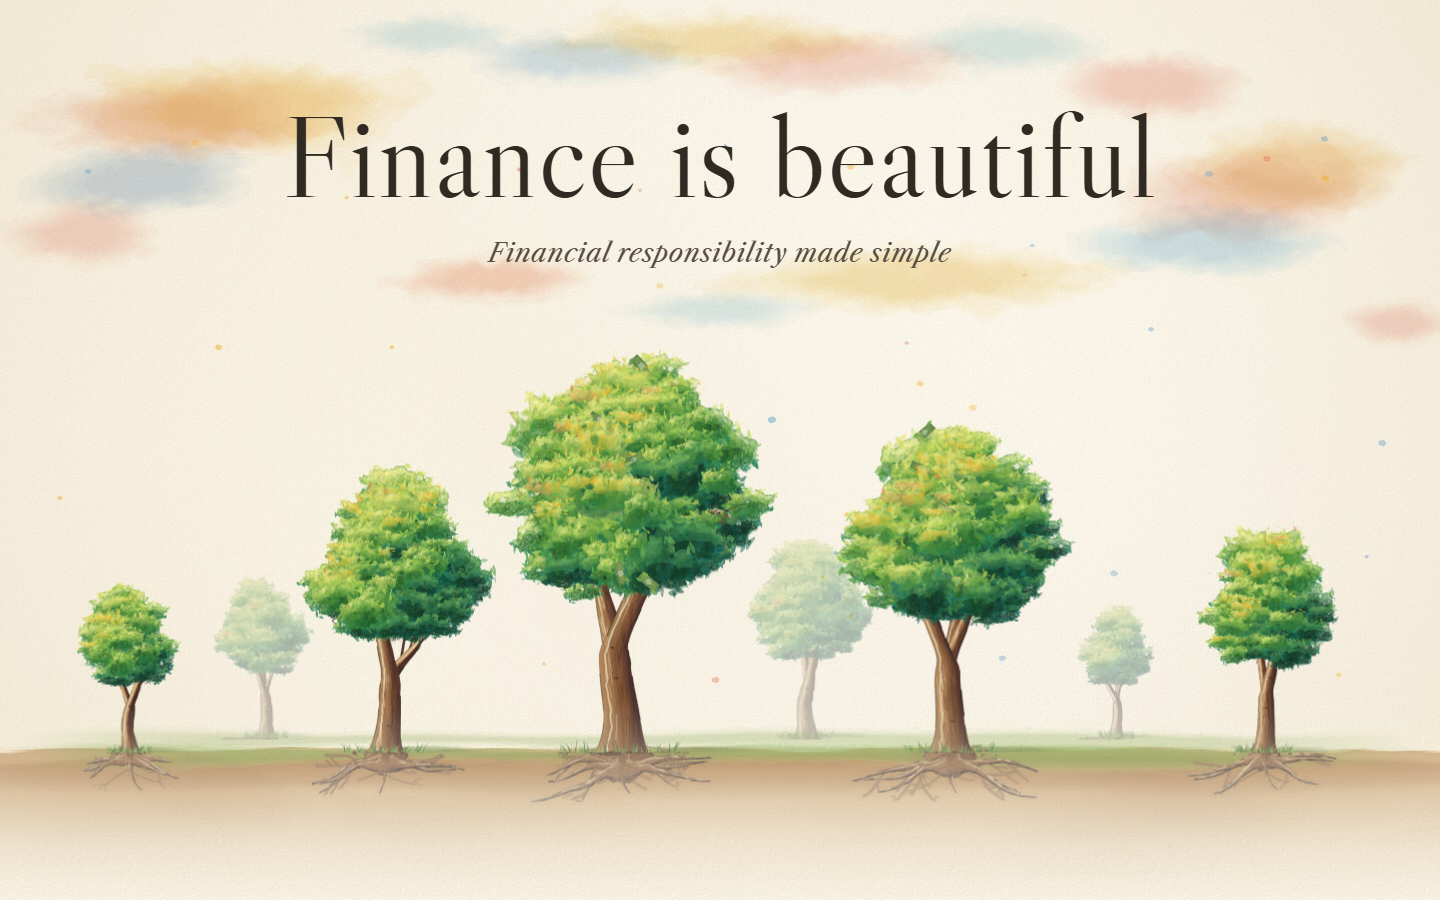
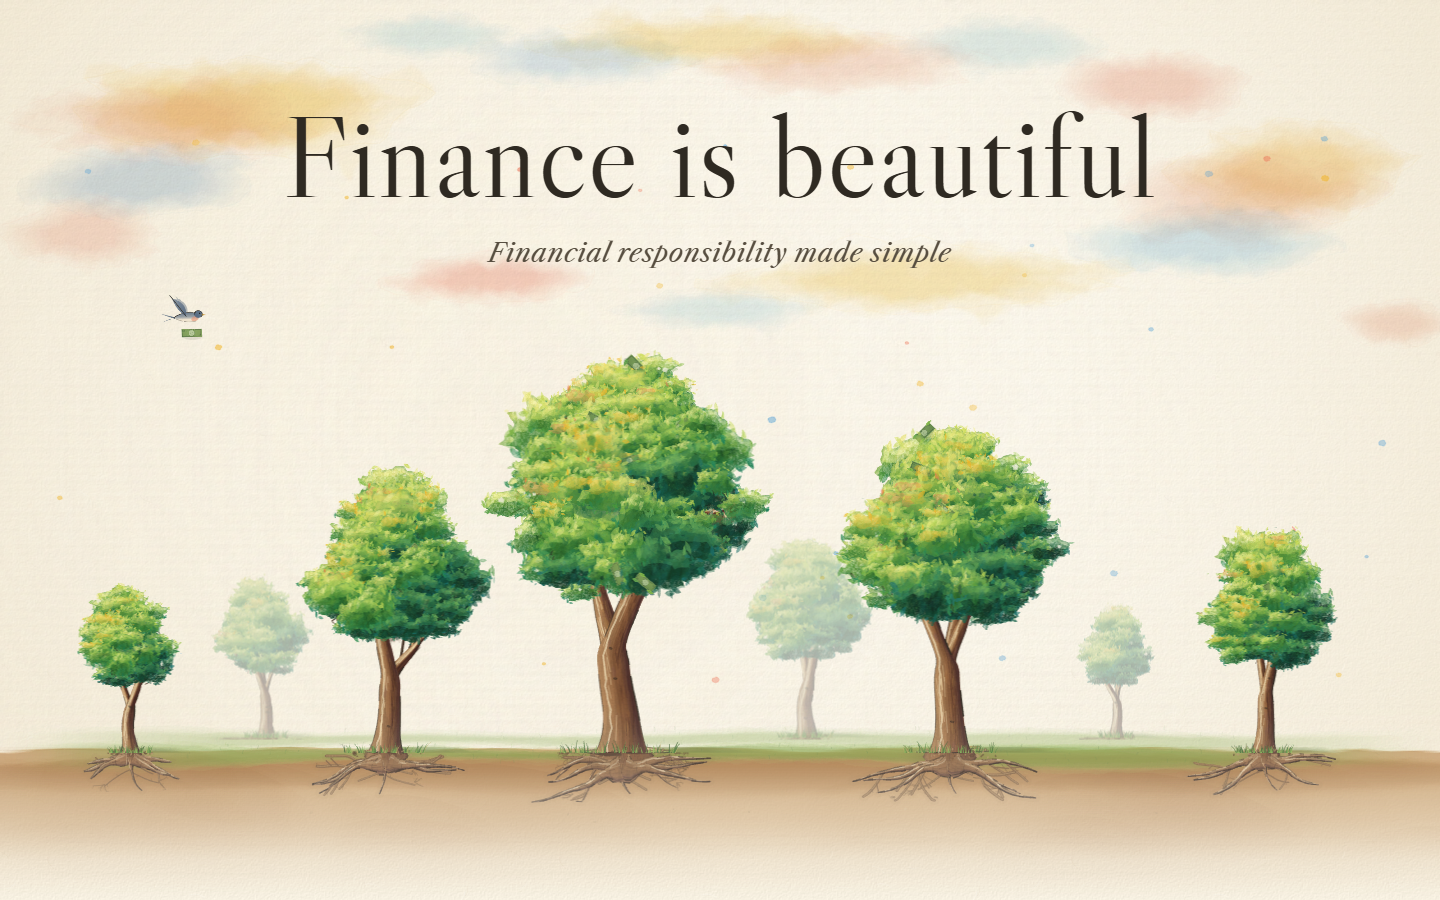
Landing: trees sway on the compositor (CSS skew animation per tree layer); repaint only when growing or receiving a bill; overlay redrawn only while birds fly

diff --git a/src/landing/hero.ts b/src/landing/hero.ts
@@ -65,6 +65,28 @@ export function startHero(hero: HTMLElement, canvas: HTMLCanvasElement, reduced:
   /** a tree that just received a bill repaints every frame until this time, so the bill fades in smoothly */
   const hotUntil = GROVE.map(() => 0);
   let grownDone = false;
+  let overlayDirty = false;
+  let tick = 0;
+  let finalPainted = false;
+  const settled = GROVE.map(() => false);
+  /**
+   * Wind as a gentle bend of each tree's cached image: a horizontal shear about its ground line, a slow
+   * gust under a quicker flutter, phase-shifted per tree; bigger trees bend a little less.
+   */
+  const SWAY_MS = 8000;
+  const swayAt = (i: number, t: number): number => {
+    const ph = i * 1.7;
+    const w = (Math.PI * 2 * t) / (SWAY_MS / 1000);
+    const amp = 0.011 * (1.15 - 0.35 * GROVE[i]!.m);
+    return amp * (0.7 * Math.sin(w + ph) + 0.3 * Math.sin(3 * w + ph * 1.9));
+  };
+  /** current bend of tree i, read from its running compositor animation */
+  const sway = (i: number): number => {
+    const a = swayAnims[i];
+    const ct = a ? Number(a.currentTime ?? 0) : 0;
+    return a ? swayAt(i, (ct % SWAY_MS) / 1000) : 0;
+  };
+  const swayAnims: Array<Animation | undefined> = GROVE.map(() => undefined);
   const billCount = (i: number) => GROVE[i]!.bills + extra[i]!;
   const layerView = (i: number) => {
     const g = geo!;
@@ -90,7 +112,11 @@ export function startHero(hero: HTMLElement, canvas: HTMLCanvasElement, reduced:
     restPose(i) {
       if (!geo || !layers[i]) return null;
       const p = painters[i]!.restingBillPose(billCount(i), layerView(i));
-      return { ...p, x: p.x + layers[i]!.x, y: p.y + layers[i]!.y };
+      const L = layers[i]!;
+      const y = p.y + L.y;
+      const yb = L.y + LAYER_UP * geo.s;
+      const k = reduced() ? 0 : sway(i);
+      return { ...p, x: p.x + L.x + k * (yb - y), y };
     },
     landed(i) {
       extra[i]!++;
@@ -130,7 +156,13 @@ export function startHero(hero: HTMLElement, canvas: HTMLCanvasElement, reduced:
   const LAYER_DOWN = 100; // below it (roots)
   const LAYER_W = 620;
 
+  /** canvases this hero has put in the page (removed and rebuilt on resize) */
+  let domLayers: HTMLCanvasElement[] = [];
+  let farTmp: HTMLCanvasElement | null = null;
   const buildLayers = (g: HeroGeometry) => {
+    for (const a of swayAnims) a?.cancel();
+    for (const c of domLayers) c.remove();
+    domLayers = [];
     layers = GROVE.map((t) => {
       const cssW = Math.ceil(LAYER_W * g.s);
       const cssH = Math.ceil((LAYER_UP + LAYER_DOWN) * g.s);
@@ -140,9 +172,43 @@ export function startHero(hero: HTMLElement, canvas: HTMLCanvasElement, reduced:
       const up = t.bg ? HORIZON_UP : 0;
       return { cv, cssW, cssH, x: t.x * g.w - cssW / 2, y: g.groundY - (LAYER_UP + up) * g.s, at: -1 };
     });
+    // far trees: hazed together into one static page layer
+    farTmp = document.createElement('canvas');
+    farTmp.width = Math.round(g.w * g.dpr);
+    farTmp.height = Math.round(g.h * g.dpr);
     bgComp = document.createElement('canvas');
-    bgComp.width = Math.round(g.w * g.dpr);
-    bgComp.height = Math.round(g.h * g.dpr);
+    bgComp.width = farTmp.width;
+    bgComp.height = farTmp.height;
+    bgComp.className = 'grove grove-far';
+    bgComp.setAttribute('aria-hidden', 'true');
+    bgComp.style.width = `${g.w}px`;
+    bgComp.style.height = `${g.h}px`;
+    canvas.before(bgComp);
+    domLayers.push(bgComp);
+    // main trees: one page layer each, smaller trees first so larger crowns overlap them
+    for (const i of order) {
+      const L = layers[i]!;
+      const st = L.cv.style;
+      L.cv.className = 'grove grove-tree';
+      L.cv.setAttribute('aria-hidden', 'true');
+      st.left = `${L.x}px`;
+      st.top = `${L.y}px`;
+      st.width = `${L.cssW}px`;
+      st.height = `${L.cssH}px`;
+      st.transformOrigin = `${L.cssW / 2}px ${LAYER_UP * g.s}px`;
+      canvas.before(L.cv);
+      domLayers.push(L.cv);
+      if (!reduced()) {
+        // wind on the compositor: a gentle shear about the ground line, sampled from swayAt over one loop
+        const N = 48;
+        const frames: Keyframe[] = [];
+        for (let f = 0; f <= N; f++) {
+          const k = swayAt(i, ((f / N) * SWAY_MS) / 1000);
+          frames.push({ transform: `skewX(${(Math.atan(-k) * 180) / Math.PI}deg)` });
+        }
+        swayAnims[i] = L.cv.animate(frames, { duration: SWAY_MS, iterations: Infinity, easing: 'linear' });
+      }
+    }
   };
 
   const paintLayer = (i: number, now: number, secs: number, still: boolean) => {
@@ -167,7 +233,8 @@ export function startHero(hero: HTMLElement, canvas: HTMLCanvasElement, reduced:
         maturity: START_M + (t.m - START_M) * e,
         months: 24,
         timeMs: now,
-        wind: !still,
+        wind: false,
+        fadeBills: !still,
         pulse: -1,
         bills: Math.floor(t.bills * e + 0.001) + extra[i]!,
       },
@@ -183,25 +250,29 @@ export function startHero(hero: HTMLElement, canvas: HTMLCanvasElement, reduced:
     // the grow clock starts when the page is revealed (begin()); until then the grove holds as seedlings
     const secs = still ? 99 : t0 < 0 ? 0 : Math.max(0, (now - t0) / 1000);
     const growing = secs < GROW_S + 0.5;
-    const t1 = performance.now();
-    // Stalest trees first within a per-frame budget (every tree when still or on the first frame), so the
-    // screen keeps a steady 60 fps while growth is spread over a couple of frames per tree.
-    const budget = growing ? 9 : 7;
+    // Trees are repainted only when they change: every frame while growing (far trees every other frame),
+    // and once when a bill lands. Wind never repaints a tree: the cached image is bent when drawn (sway()).
     const first = layers.some((L) => L.at < 0);
     const hot = (i: number) => hotUntil[i]! > now;
-    const byAge = allIdx.slice().sort((a, b) => (hot(b) ? 1 : 0) - (hot(a) ? 1 : 0) || layers[a]!.at - layers[b]!.at);
-    let n = 0;
+    tick++;
     let bgDirty = first;
-    for (const i of byAge) {
-      if (!still && !first && n > 0 && !hot(i) && performance.now() - t1 > budget) break;
+    for (const i of allIdx) {
+      const t = GROVE[i]!;
+      const due = first || hot(i) || (growing && !settled[i] && (!t.bg || tick % 2 === 0));
+      if (!due) continue;
       paintLayer(i, now, secs, still);
-      if (GROVE[i]!.bg) bgDirty = true;
-      n++;
+      // one last paint after its growth window closes, then it is cached for good
+      if (growing && secs > t.delay + GROW_S + 0.1) settled[i] = true;
+      if (t.bg) bgDirty = true;
     }
-    ctx.setTransform(geo.dpr, 0, 0, geo.dpr, 0, 0);
-    ctx.clearRect(0, 0, geo.w, geo.h);
-    if (bgComp && bgDirty) {
-      const bc = bgComp.getContext('2d')!;
+    if (!growing && !finalPainted) {
+      // make sure every tree's cached image is its exact final state
+      finalPainted = true;
+      for (const i of allIdx) if (!settled[i]) paintLayer(i, now, secs, still);
+      bgDirty = true;
+    }
+    if (bgComp && farTmp && bgDirty) {
+      const bc = farTmp.getContext('2d')!;
       bc.setTransform(geo.dpr, 0, 0, geo.dpr, 0, 0);
       bc.globalCompositeOperation = 'source-over';
       bc.clearRect(0, 0, geo.w, geo.h);
@@ -215,18 +286,20 @@ export function startHero(hero: HTMLElement, canvas: HTMLCanvasElement, reduced:
       bc.fillRect(0, 0, geo.w, geo.h);
       bc.fillStyle = 'rgba(120,165,205,0.12)';
       bc.fillRect(0, 0, geo.w, geo.h);
+      const fc = bgComp.getContext('2d')!;
+      fc.setTransform(1, 0, 0, 1, 0, 0);
+      fc.clearRect(0, 0, bgComp.width, bgComp.height);
+      fc.globalAlpha = 0.55;
+      fc.drawImage(farTmp, 0, 0);
+      fc.globalAlpha = 1;
     }
-    if (bgComp) {
-      ctx.globalAlpha = 0.55;
-      ctx.drawImage(bgComp, 0, 0, geo.w, geo.h);
-      ctx.globalAlpha = 1;
+    // the overlay canvas only carries birds and falling bills: redraw it only while something is flying
+    if (grownDone && !still && (aviary.busy(now) || overlayDirty)) {
+      ctx.setTransform(geo.dpr, 0, 0, geo.dpr, 0, 0);
+      ctx.clearRect(0, 0, geo.w, geo.h);
+      aviary.frame(ctx, now);
+      overlayDirty = aviary.busy(now);
     }
-    for (const i of order) {
-      const L = layers[i]!;
-      ctx.drawImage(L.cv, L.x, L.y, L.cssW, L.cssH);
-    }
-    // occasional birds, once the grove has grown (never in reduced motion)
-    if (grownDone && !still) aviary.frame(ctx, now);
     if (secs > GROW_S + 0.5) {
       grownDone = true;
       resolveGrown();

diff --git a/src/scene/treePainter.ts b/src/scene/treePainter.ts
@@ -37,6 +37,8 @@ export interface PaintParams {
   cull?: { x0: number; y0: number; x1: number; y1: number };
   /** whole years of contributions = bills resting in the canopy */
   bills?: number;
+  /** fade newly added canvas bills in even when wind is off (the landing sways trees as whole images) */
+  fadeBills?: boolean;
   /** planting spot instead of a tree */
   unplanted?: boolean;
   /** 0..1 planting transition (stake fades, mound settles); 1 = fully planted */
@@ -643,7 +645,7 @@ export class TreePainter {
     const count = Math.min(this.slots.length, Math.max(0, Math.floor(p.bills ?? 0)));
     if (!p.cull) {
       // which slots are showing, and since when (fade in when they arrive without a flight)
-      const instant = !p.wind || !this.haveCount;
+      const instant = (!p.wind && !p.fadeBills) || !this.haveCount;
       for (let k = 0; k < this.slots.length; k++) {
         if (k >= count) this.slotBorn[k] = -1;
         else if (this.slotBorn[k]! === -1) this.slotBorn[k] = instant ? -Infinity : now;

diff --git a/src/landing/birds.ts b/src/landing/birds.ts
@@ -252,6 +252,11 @@ export class Aviary {
   readonly reserved = new Set<number>();
   constructor(private hooks: AviaryHooks) {}
 
+  /** True while birds or bills are on screen, or a new bird is due. */
+  busy(now: number): boolean {
+    return this.birds.length > 0 || this.falls.length > 0 || this.nextAt < 0 || now >= this.nextAt;
+  }
+
   /** Advance and draw; `now` is wall-clock ms. Call only once the grove has grown and motion is allowed. */
   frame(ctx: CanvasRenderingContext2D, now: number): void {
     const sky = this.hooks.sky();

diff --git a/src/styles/landing.css b/src/styles/landing.css
@@ -120,6 +120,12 @@ html[data-ready] .grove {
   opacity: 1;
 }
 
+/* each main tree is its own page layer, swaying on the compositor */
+.grove.grove-tree {
+  inset: auto;
+  will-change: transform;
+}
+
 /* the type waits for the art, then settles in just after the paper and sky appear */
 /* text is cheap to draw, so it stays fully hidden (only the canvases pre-render at 1%) */
 .hero-title,
